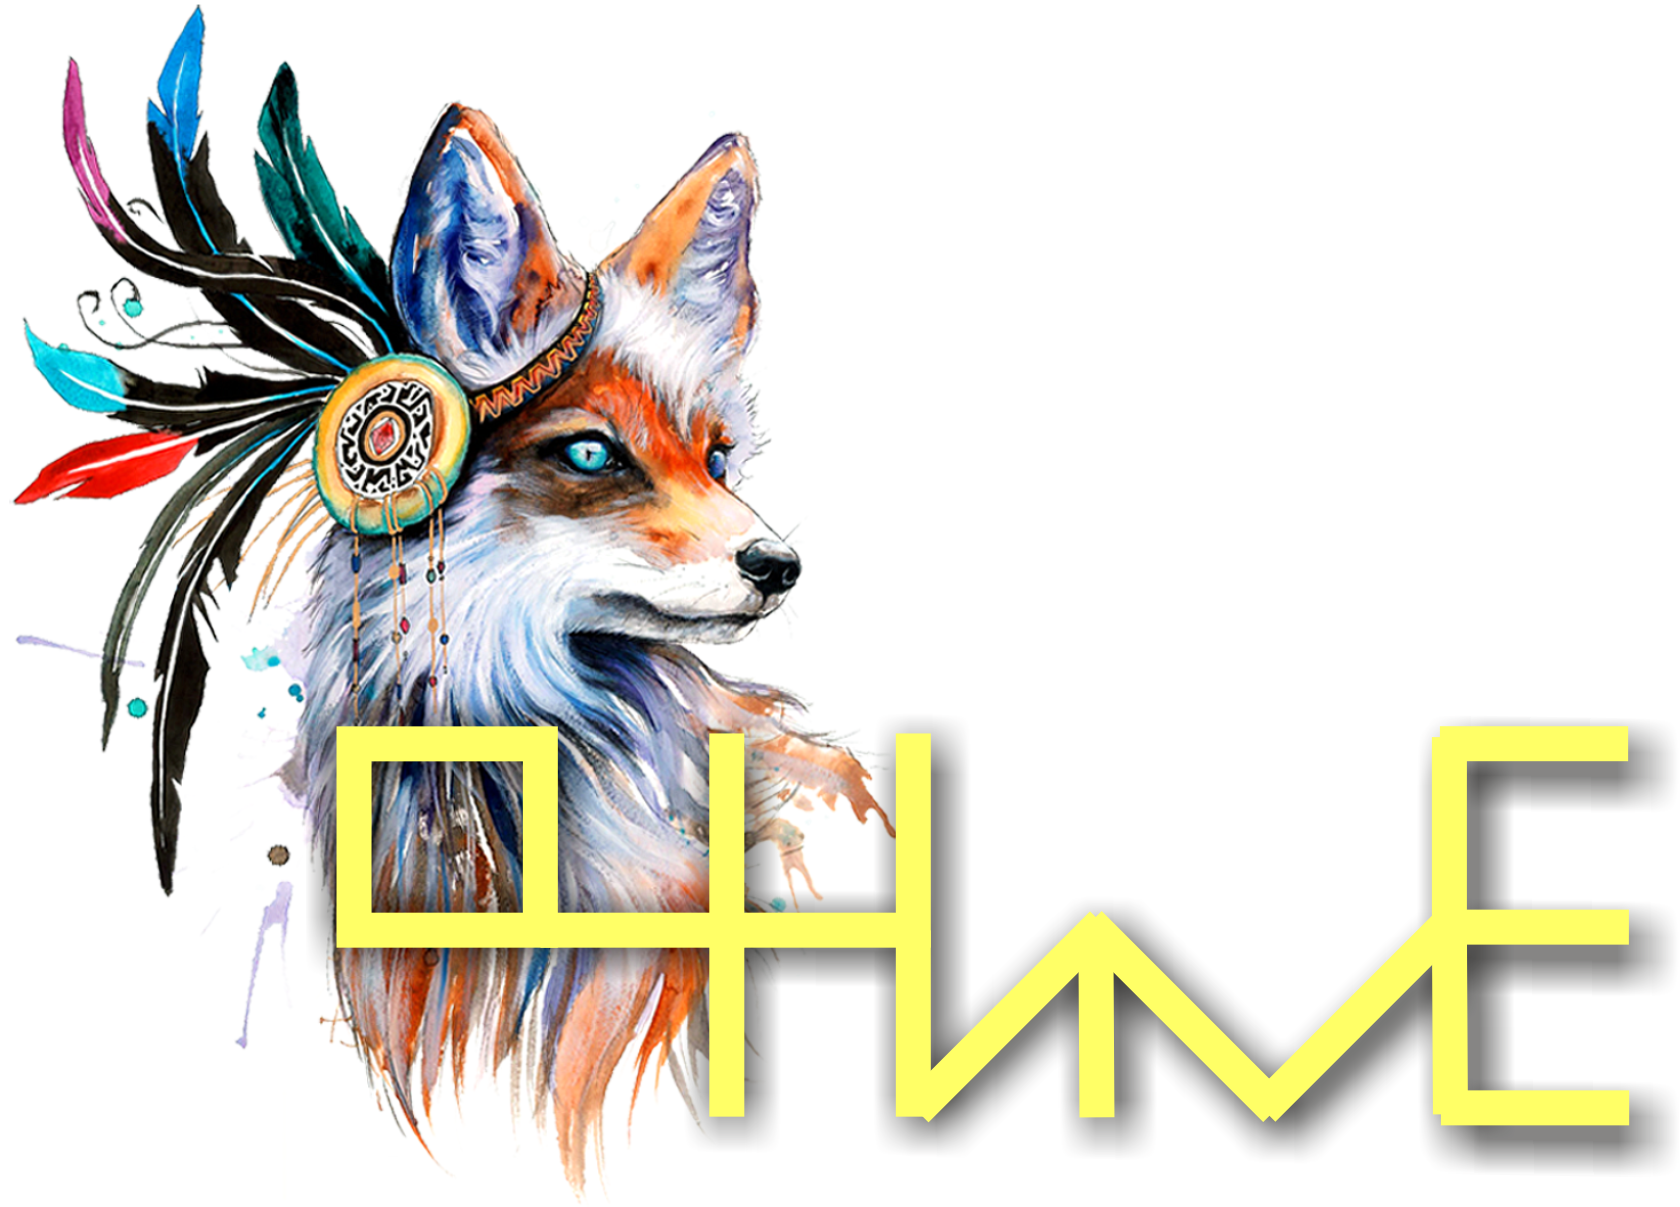
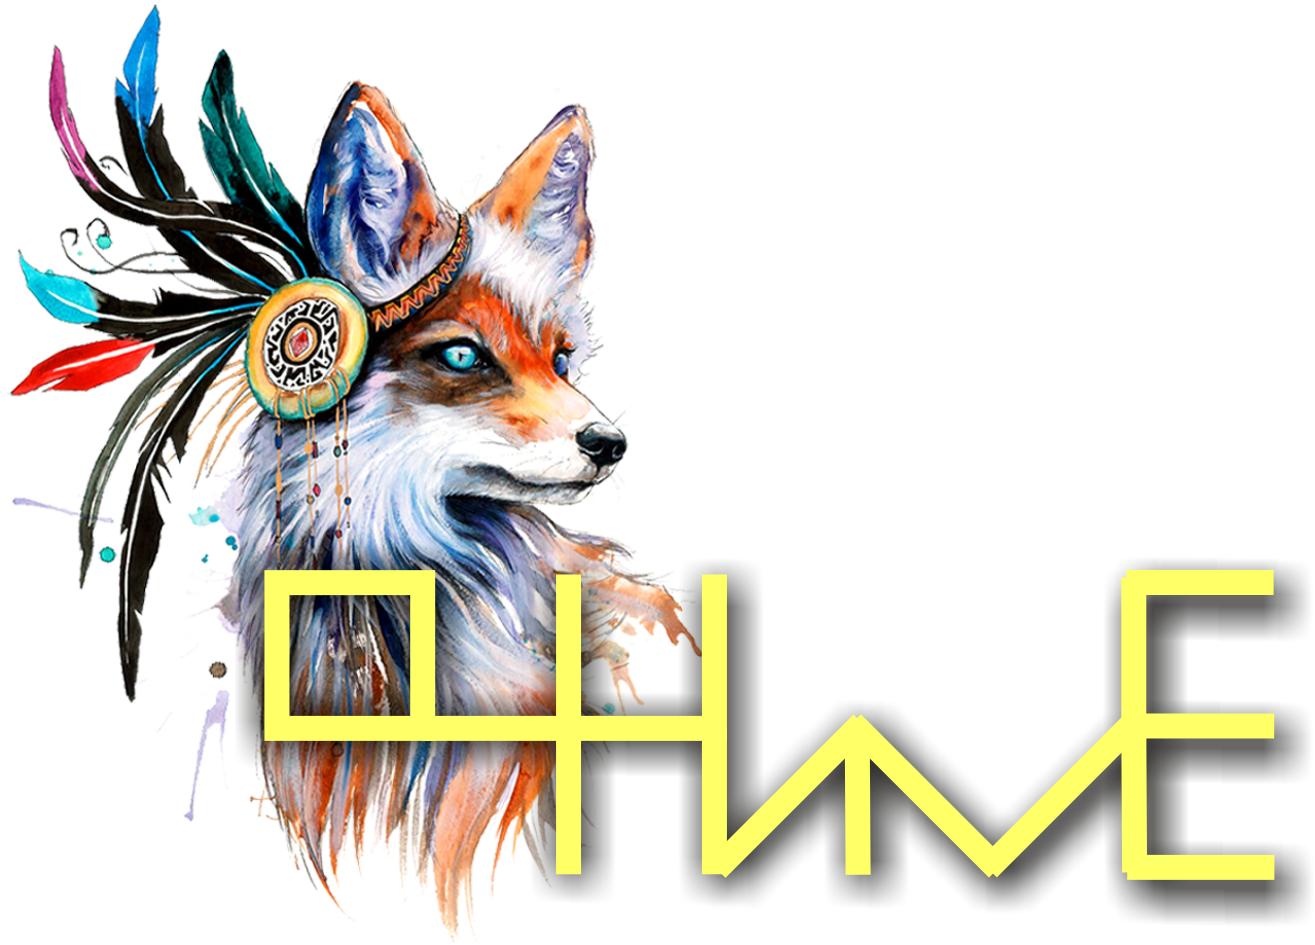
1234

diff --git a/index.html b/index.html
@@ -63,7 +63,7 @@
             <div class="container">
                 <div class="col-1">
                     <a href="#">
-                        <img class="logo" src="/hohlova/images/footer1.png" alt="logo" title="Главная">
+                        <img class="logo" src="/hohlova/images/footer2.png" alt="logo" title="Главная">
                     </a>
                 </div>
                 <div class="col-4">

diff --git a/style/main.css b/style/main.css
@@ -118,7 +118,7 @@ button {
 /* Шапка сайта */
 header {
     flex: 0 0 auto;
-    background-color: #000;
+    background-color: #212426;
     height: 100px;
     color: #fff;
 }
